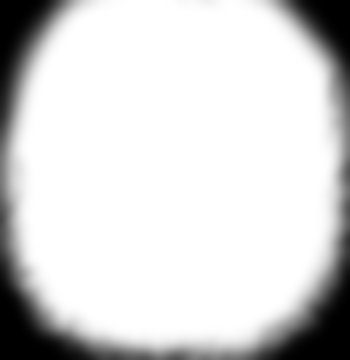
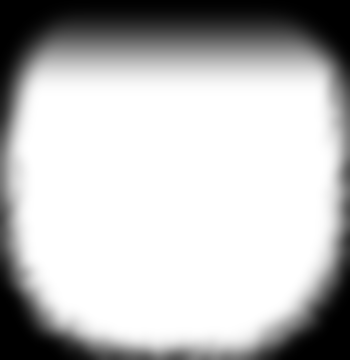
v4.2 W33: AZRAELs Kopf stand abgeschnitten im Sendebild (#80)
Gemeldet und reproduziert: die oberste Maskenzeile stand mittig auf Alpha 255,
die Kapuze brach an der Bildkante glatt ab. Ursache in der Vorlage - dort
beruehrt die Kapuze bereits y=0, nach oben gibt es nichts zum Nachwachsen. Die
Vignette aus W32 half nicht, weil ihr Mittelpunkt bei 0.47 sitzt: der obere
Rand ist naeher am Zentrum als der untere und blieb deckend.

Die Kapuze blendet jetzt ueber die obersten 26 % weich aus statt zu enden.
Drei Staerken gerendert und verglichen (18 % laesst die Kante, 34 % loest die
Kapuze auf). RESTREAM_AVATAR_H 360 -> 420, weil die Ausblendung Flaeche kostet.

Vertrag prueft jetzt die oberste Maskenzeile (<=8 statt bis 255). Zwei
Mutationen bestaetigt, darunter die End-zu-End-Probe: Ausblendung im Generator
auf 0 und neu erzeugt stellt den ausgelieferten Fehler wieder her.

Nur alpha.png traegt die Korrektur - die Bewegung war nie betroffen. Genau
dafuer liegen Farbe und Deckung getrennt.

Claude-Session: https://claude.ai/code/session_01AJgxmFgPJxvtRNsoPAMQB7

Changed region(s): [[0.0571, 0.0, 0.9714, 0.2139]]

diff --git a/test_restream.py b/test_restream.py
@@ -4385,6 +4385,7 @@ def test_v42_w32_azrael_animation():
     (3) die Artefakte wachsen unbemerkt (die PNG-Sequenz waere 11 MB gewesen).
     """
     import struct
+    import zlib
 
     from nc import ffmpeg_filters as FF
 
@@ -4429,13 +4430,41 @@ def test_v42_w32_azrael_animation():
     # Farbtyp 0 = Graustufen. alphamerge liest den Grauwert; ein RGB-Bild
     # waere dreimal so gross fuer denselben Inhalt.
     assert (tiefe, farbtyp) == (8, 0), f"Maske muss 8bit-Graustufen sein, ist {(tiefe, farbtyp)}"
+
+    # v4.2-W33: die oberste Zeile MUSS durchsichtig sein. In der Vorlage
+    # beruehrt die Kapuze die obere Bildkante; stand die Maske dort auf 255,
+    # war der Kopf im Sendebild glatt abgeschnitten — genau so ausgeliefert
+    # und vom Betreiber gemeldet. Unten darf gekappt werden (Brustbild), oben
+    # nie. Ohne Pillow gelesen: nur die erste Scanline entfiltern reicht,
+    # Filter 0/1 brauchen keine Vorzeile, bei 2-4 ist sie definitionsgemaess 0.
+    roh_a = bytearray()
+    d2, i2 = open(alpha, "rb").read(), 8
+    while i2 < len(d2):
+        ln2, typ2 = struct.unpack(">I4s", d2[i2:i2 + 8])
+        if typ2 == b"IDAT":
+            roh_a += d2[i2 + 8:i2 + 8 + ln2]
+        elif typ2 == b"IEND":
+            break
+        i2 += 12 + ln2
+    scan = zlib.decompress(bytes(roh_a))
+    filt, zeile0 = scan[0], bytearray(scan[1:1 + aw])   # Graustufen: 1 Byte je Pixel
+    # Nur die ERSTE Scanline: fuer die ist die Vorzeile definitionsgemaess 0,
+    # damit fallen Up/Average/Paeth auf Sub bzw. auf gar nichts zurueck.
+    if filt in (1, 4):
+        for x in range(1, aw):
+            zeile0[x] = (zeile0[x] + zeile0[x - 1]) & 255
+    elif filt == 3:
+        for x in range(1, aw):
+            zeile0[x] = (zeile0[x] + (zeile0[x - 1] >> 1)) & 255
+    assert max(zeile0) <= 8, \
+        f"oberste Maskenzeile deckt bis {max(zeile0)} — der Kopf steht abgeschnitten im Bild"
     for name in ("ruhe.webm", "sprich.webm"):
         pfad = os.path.join("assets", "azrael", name)
         assert os.path.isfile(pfad), f"{name} fehlt"
         assert open(pfad, "rb").read(4) == b"\x1a\x45\xdf\xa3", f"{name} ist kein WebM"
         kb = os.path.getsize(pfad) / 1024
         assert kb < 400, f"{name} ist {kb:.0f} KB — Schleifen gehoeren klein ins Repo"
-    ok("v4.2-w32: Animation + getrennte Alpha, Rueckfall aufs Standbild, Artefakte klein")
+    ok("v4.2-w32/33: Animation, getrennte Alpha, Kopf nicht abgeschnitten, Artefakte klein")
 
 
 def test_v40_w28_filepayload():

diff --git a/tools/azrael_frames.py b/tools/azrael_frames.py
@@ -90,11 +90,23 @@ def _bloom(bild):
                        ).filter(ImageFilter.GaussianBlur(14))
 
 
+KOPF_AUSBLENDUNG = 0.26     # oberste 26 % der Hoehe weich auf 0 ziehen
+
+
 def _alpha(bild):
     """Freistellen geht bei dieser Vorlage nicht: der Glow reicht bis an die
     Kante, und die Figur ist selbst fast schwarz — ein Luminanz-Key frisst
     Kapuze und Ruestung. Deshalb Superellipsen-Vignette, und erst ganz aussen
-    nimmt eine sanfte Dunkel-Maske die schwarzen Ecken weg."""
+    nimmt eine sanfte Dunkel-Maske die schwarzen Ecken weg.
+
+    v4.2-W33 — KOPF NICHT ABSCHNEIDEN: in der Vorlage beruehrt die Kapuze
+    bereits die obere Bildkante, und die Vignette war dort noch voll deckend
+    (Alpha 255 in der obersten Zeile). Im Sendebild stand der Kopf damit glatt
+    abgeschnitten. Nach oben gibt es keine Pixel zum Nachwachsen, also blendet
+    die Kapuze aus, statt zu enden — was zur Figur passt, die ohnehin aus dem
+    Dunkel kommt. Unten passiert das von selbst, weil der Ellipsenmittelpunkt
+    bei 0.47 liegt und der untere Rand damit weiter weg ist als der obere.
+    """
     W, H = bild.size
     lum = bild.convert("L")
     maske = Image.new("L", (W, H))
@@ -112,6 +124,12 @@ def _alpha(bild):
                 m = min(1.0, (r - 0.80) / 0.22)
                 k *= (1 - m) + m * d
             px[x, y] = int(k * 255)
+    aus = int(H * KOPF_AUSBLENDUNG)
+    for y in range(aus):
+        t = y / aus
+        f = t * t * (3 - 2 * t)          # smoothstep, kein linearer Keil
+        for x in range(W):
+            px[x, y] = int(px[x, y] * f)
     return maske.filter(ImageFilter.GaussianBlur(5))
 
 

diff --git a/bot.py b/bot.py
@@ -1193,7 +1193,9 @@ RESTREAM_AVATAR_LOOP  = os.getenv("RESTREAM_AVATAR_LOOP", "assets/azrael/ruhe.we
 RESTREAM_AVATAR_ALPHA = os.getenv("RESTREAM_AVATAR_ALPHA", "assets/azrael/alpha.png").strip()
 # Er ist der optische Moderator — wie gross er im Sendebild steht, ist
 # Geschmack und gehoert deshalb in die .env, nicht in den Quelltext.
-RESTREAM_AVATAR_H     = _env_int("RESTREAM_AVATAR_H", 360)
+# v4.2-W33: 360 -> 420. Die Kopf-Ausblendung (siehe tools/azrael_frames.py)
+# kostet oben Flaeche; ohne Ausgleich wirkt die Figur kleiner als in W32.
+RESTREAM_AVATAR_H     = _env_int("RESTREAM_AVATAR_H", 420)
 # Wie lange (Sek.) eine AZRAEL-Reaktion im gebrannten Overlay stehen bleibt.
 RESTREAM_REACT_HOLD = _env_int("RESTREAM_REACT_HOLD", 20)
 

diff --git a/docs/CHANGELOG.md b/docs/CHANGELOG.md
@@ -11,6 +11,34 @@ Historie aller Entwicklungswellen steht in [`README_V37.md`](README_V37.md).
 
 ## [Unveröffentlicht]
 
+### Behoben — AZRAELs Kopf stand abgeschnitten im Sendebild (v4.2 W33)
+
+Vom Betreiber gemeldet und reproduziert: die Kapuze endete oben an einer
+glatten waagerechten Kante. Messbar in der Maske — **die oberste Zeile stand
+mittig auf Alpha 255**, der Inhalt war dort also voll deckend und brach an der
+Bildkante einfach ab.
+
+Ursache liegt in der Vorlage selbst: dort berührt die Kapuze bereits y=0, es
+gibt nach oben keine Pixel zum Nachwachsen. Die Superellipsen-Vignette aus W32
+half nicht, weil ihr Mittelpunkt bei 0.47 sitzt — der obere Rand ist damit
+*näher* am Zentrum als der untere und blieb deckend, während unten von selbst
+ausblendete (dort ist ein Brustbild-Anschnitt ohnehin normal, bei einem Kopf
+nie).
+
+Die Kapuze blendet jetzt über die obersten 26 % weich aus, statt zu enden — das
+passt zur Figur, die ohnehin aus dem Dunkel kommt. Drei Stärken gerendert und
+verglichen: bei 18 % bleibt die Kante spürbar, bei 34 % löst sich die Kapuze
+auf. Weil die Ausblendung oben Fläche kostet, geht `RESTREAM_AVATAR_H` von 360
+auf 420 — die Figur wirkt sonst kleiner als vorher.
+
+Der Vertrag aus W32 prüft jetzt zusätzlich die oberste Maskenzeile (≤ 8 statt
+bis 255). Zwei Mutationen bestätigt, darunter die End-zu-End-Probe: die
+Ausblendung im Generator auf 0 gedreht und neu erzeugt stellt exakt den
+ausgelieferten Fehler wieder her — und der Vertrag fängt ihn.
+
+Nur `alpha.png` trägt die Korrektur; die Bewegung in den WebM-Schleifen war nie
+betroffen. Genau dafür liegen Farbe und Deckung getrennt.
+
 ### Hinzugefügt — AZRAEL bewegt sich: Mund, Schwertarm, Aura (v4.2 W32)
 
 W31 hat ein Standbild ins Sendebild gestellt, das auf und ab wippte. Ein

diff --git a/README.md b/README.md
@@ -196,7 +196,7 @@ flowchart TB
     DC --> BOT
     TT --> BOT
 
-    BOT["bot.py<br/>Monolith · 22.699 Zeilen<br/>Scraper · Recorder · Restream<br/>Flask-Dashboard · 34 eigene Routen"]:::core
+    BOT["bot.py<br/>Monolith · 22.701 Zeilen<br/>Scraper · Recorder · Restream<br/>Flask-Dashboard · 34 eigene Routen"]:::core
 
     BOT -->|configure| NC["nc/ — 132 Fachmodule<br/>Schema · OAuth · Restream<br/>Ledger · Moderation · Intel"]:::lib
     NC --> RT["nc/routes/ — 36 Blueprints<br/>327 weitere API-Routen"]:::lib
@@ -717,7 +717,7 @@ gebrochen ist.**
 
 ### 🧭 Navigation im Monolithen
 
-`bot.py` hat 22.699 Zeilen. Es wird **nie** ganz gelesen und **nie**
+`bot.py` hat 22.701 Zeilen. Es wird **nie** ganz gelesen und **nie**
 blind durchsucht — erst fragen wo etwas steht, dann den Ausschnitt holen:
 
 ```bash
@@ -859,7 +859,7 @@ Vollständige Historie: **[`docs/CHANGELOG.md`](docs/CHANGELOG.md)** ·
 ## 🧭 Roadmap
 
 Der nächste grosse Schritt ist kein Feature, sondern Aufräumen: **`bot.py` hat
-22.699 Zeilen**. Die Datei ist der Engpass des Projekts. Die Messlatte dafür ist
+22.701 Zeilen**. Die Datei ist der Engpass des Projekts. Die Messlatte dafür ist
 aber keine Zeilenzahl:
 
 > **Eine neue API-Route anlegen, ohne `bot.py` zu öffnen.**

diff --git a/docs/ROADMAP.md b/docs/ROADMAP.md
@@ -3,7 +3,7 @@
 > 🌐 **Deutsch** · [English](en/ROADMAP.md)
 
 Der nächste grosse Schritt ist kein Feature, sondern Aufräumen: **`bot.py` hat
-22.699 Zeilen**. Die Datei ist der Engpass des Projekts — sie lässt sich nicht
+22.701 Zeilen**. Die Datei ist der Engpass des Projekts — sie lässt sich nicht
 überblicken und nur mit Werkzeug bearbeiten.
 
 Der vollständige, gemessene Plan steht in

diff --git a/CLAUDE.md b/CLAUDE.md
@@ -10,7 +10,7 @@ GitHub-Repo trägt Historie, CI und Issues — es ist nicht der Deploy-Weg.
 
 ## Die eine Regel
 
-`bot.py` hat **22.699 Zeilen / 1,2 MB ≈ 294.000 Token**. Diese Datei wird
+`bot.py` hat **22.701 Zeilen / 1,2 MB ≈ 294.000 Token**. Diese Datei wird
 **nie** ganz gelesen und **nie** blind durchsucht. Erst fragen wo etwas steht,
 dann den Ausschnitt holen:
 

diff --git a/CLAUDE.en.md b/CLAUDE.en.md
@@ -16,7 +16,7 @@ route.
 
 ## The one rule
 
-`bot.py` has **22,699 lines / 1.2 MB ≈ 294,000 tokens**. That file is **never**
+`bot.py` has **22,701 lines / 1.2 MB ≈ 294,000 tokens**. That file is **never**
 read in full and **never** searched blindly. First ask where something is, then
 fetch the excerpt:
 
